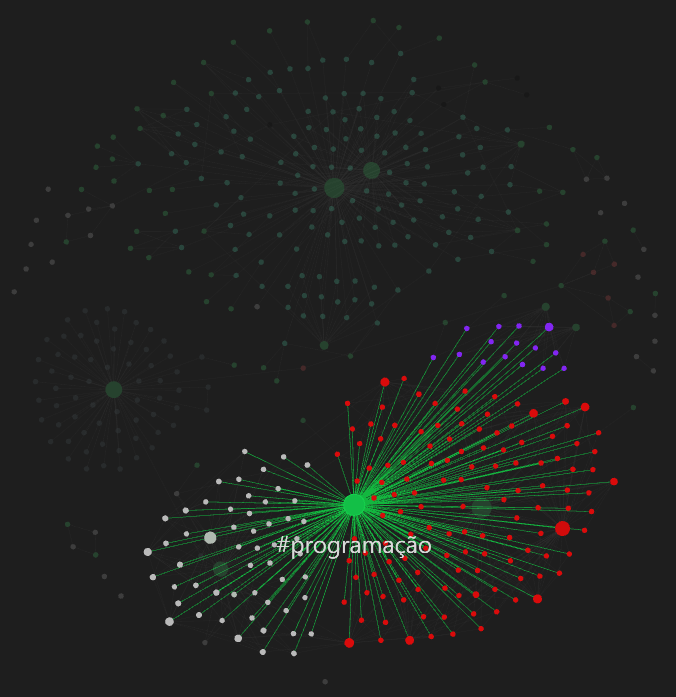
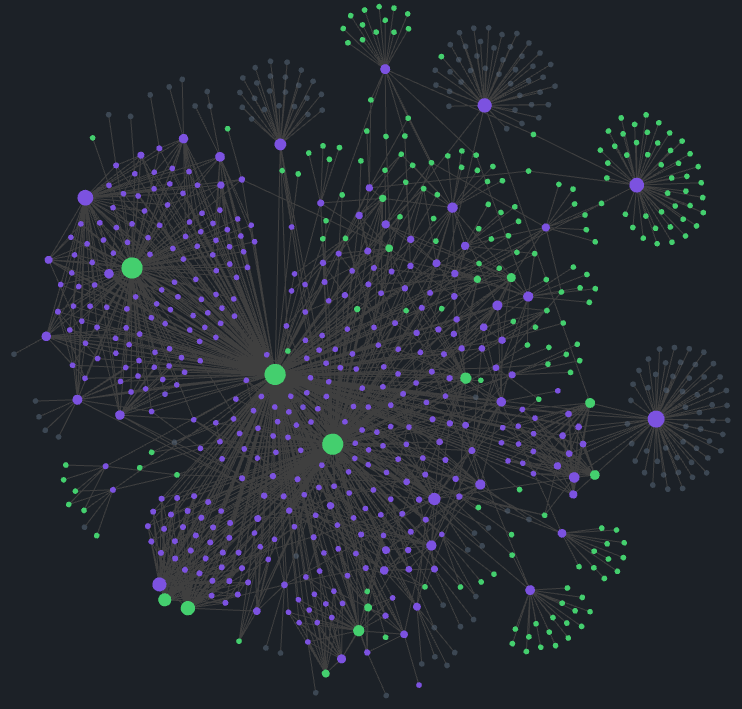
chore: Add CONTRIBUTING and INSTALL documentation and update global files

diff --git a/README.md b/README.md
@@ -1,23 +1,23 @@
 ---
 title: Studies - Root
-tags: studies, programming
-use: Documentation
-languages: NULL
-dependences: NULL
+tags:
+  - studies
+  - programming
+use: Management
 banner: "![[proggramming_banner.jpg]]"
 banner_y: 0.5
 banner_lock: true
 ---
 ****
 > [!INFO] 
-> The links are built for the obsidian branch, i was working in main but now i'll split correctly and after that update all the inter document links over the main branch
+> - If you're coming from the [GitHub repo](https://github.com/see7e/programming-studies), some of the links are built for Obsidian, this means that you'll either have to access the [Page implementation]() or store everything locally.
+> - If you like the information and want to add/update with yours insights go to the [CONTRIBUTING](Courses/CPQD_private-networks-5G/CONTRIBUTING.md) document.
 
 ---
 
 > This is a list of interesting documents gathered during development studies
 # The Big Picture 🌌
-
-This repo is divided in two branches, [main](https://github.com/see7e/programming-studies) has common links and [obsidian](https://github.com/see7e/programming-studies/tree/obsidian) links follow a Zettelkasten adapted model along with Obsidian to map the network of documents. If you want to set up in you computer, [click here](obisidian_init.md).
+Links follow a Zettelkasten adapted model along with Obsidian to map the network of documents.
 
 <details>
 	<summary>If you want to know the history, click here.</summary>
@@ -36,7 +36,6 @@ This repo is divided in two branches, [main](https://github.com/see7e/programmin
 ![Galaxy|500](./src/img/prog-galaxy.png)
 
 # Process 🧩
-
 As any (very) systematic person and with a great chance of my mind to escape the focus state, that is to me a very challenging task, I need a flow to guide me through the process of learning.
 
 ```mermaid
@@ -66,31 +65,27 @@ Other possibility is the *Expand* process, where the previous steps may revialed
 > *Isaac Newton*
 
 ## [A Fresh start](Docs/roadmaps/fresh_start.md) 🛣
-
 Sometimes in the rush to resolve the problems that we face, the learn only to fill the gap that is presented by the obstacle. So I'll try to visit the core/basic concepts of CS, using some guidelines.
 
 ## Progress 🏗
-
 This graph reflects the themes that I'm studying, and the progress of each one. The tree divisions will follow the three different contexts (work and personal).
 
 > [!NOTE]
-> The priorities are changing quickly, and in the moment i cannot follow the original plan, so i'll just put a list of the topics that i'm studying.
+> The priorities are changing quickly, and in the moment i cannot follow the original plan, so I'll just put a list of the topics that i'm studying.
 > - Backend (webserver, testings)
 >   - Django [work]
 >   - ~~Go [personal]~~
 > - Homelab (networking, services) [personal]
-> - Teorical topics (Fresh start roadmap) [personal] *is currently paused*
+> - Theorical topics (Fresh start roadmap) [personal]
 > Here's the [archive](./src/progress_archive.md) of Gannt charts. 
 
 Also I'm now tracking the "TODOs" and implementation ideas with `- [i]` this uses [Tasks Plugin](https://publish.obsidian.md/tasks/Introduction) and some theming ([Status Collections](https://publish.obsidian.md/tasks/Reference/Status+Collections/About+Status+Collections)) to format, query and sort the needed changes at the Vault.
 
-## First time with Markdown? 📑
-> Enter [here](first-time.md)
+## [First time with Markdown? 📑](first-time.md)
 
-## Some useful links [🔗](links.md) 
+## [Some useful links🔗](links.md) 
 
 ## Readings 📚
-
 - Pragmatic Programmer - From Journeyman to Master - Andrew Hunt, David Thomas
 - Make it stick - The Science of Successful Learning - Peter Brown, Henry L. Roediger III, Mark A. McDaniel
 - Modern Operating Systems - Andrew S. Tanenbaum, Herbert Bos

diff --git a/INSTALL.md b/INSTALL.md
@@ -1,0 +1,89 @@
+---
+title: INSTALL
+tags:
+  - studies
+use: Guideline, Community
+---
+# Obsidian Vault GitHub Repository Setup Guide
+
+## Prerequisites
+Before starting, ensure you have:
+- [Obsidian](https://obsidian.md/) installed on your computer
+- A [GitHub](https://github.com/) account
+- [Git](https://git-scm.com/) installed on your system
+
+## Step 1: Create Your Obsidian Vault
+1. Open Obsidian
+2. [Clone the repo](https://docs.github.com/en/repositories/creating-and-managing-repositories/cloning-a-repository)
+3. (Optionally) Uncomment and initialize the `.gitmodules`
+4. Select the location on your computer
+
+## Step 2: Daily Workflow
+### Making Changes
+1. Edit your notes in Obsidian as usual. Some configurations are default to improve compatibility with other platforms that doesn't use `[[]]` based links. Always try to create interconnected documents, to not leave orphans behind.
+2. When ready to save changes to GitHub:
+	```bash
+	# Add all changes
+	git add .
+	
+	# Commit with descriptive message
+	git commit -sm "Add notes on [topic] and update [filename]"
+	
+	# Push to GitHub
+	git push
+	```
+3. To merge the updates to the main repo and have your changes applied at the GH-Pages don't forget to open a PR.
+### Pulling Changes (if working across multiple devices)
+```bash
+# Pull latest changes from GitHub
+git pull origin main
+```
+
+## Repository Structure
+Your final repository structure should look like:
+
+```shell
+drwxrwxrwx 0 see7e see7e   512 Jun 27  2025 .
+drwxrwxrwx 0 see7e see7e   512 Oct 22  2024 ..
+drwxrwxrwx 0 see7e see7e   512 Jun 27 09:20 .git
+drwxrwxrwx 0 see7e see7e   512 Aug  1  2024 .github
+-rwxrwxrwx 0 see7e see7e   276 Dec  5  2023 .gitignore
+-rwxrwxrwx 0 see7e see7e  2313 Apr 14 08:31 .gitmodules
+-rwxrwxrwx 0 see7e see7e  1728 Jun 27 09:35 CONTRIBUTING.md
+drwxrwxrwx 0 see7e see7e   512 Oct 30  2023 Courses
+-rwxrwxrwx 0 see7e see7e  2555 Jun 27 09:10 DIRECTORY.md
+drwxrwxrwx 0 see7e see7e   512 Jun 27 09:09 Docs
+-rwxrwxrwx 0 see7e see7e  2685 Jun 27  2025 INSTALL.md
+-rwxrwxrwx 0 see7e see7e  1094 Aug 21  2023 LICENSE
+drwxrwxrwx 0 see7e see7e   512 Mar 14 10:29 Languages
+drwxrwxrwx 0 see7e see7e   512 Aug 21  2023 Programs
+drwxrwxrwx 0 see7e see7e   512 Aug 31  2024 Projects
+-rwxrwxrwx 0 see7e see7e  6469 Jun 27 09:35 README.md
+-rwxrwxrwx 0 see7e see7e 23815 Aug  1  2024 links.md
+drwxrwxrwx 0 see7e see7e   512 Aug  1  2024 src
+
+```
+
+## Best Practices
+- **Commit frequently** with descriptive messages
+- **Use folders** to organize different types of notes
+- **Keep sensitive information** in a separate, private vault
+- **Back up regularly** by pushing to GitHub
+- **Use branches** for experimental note structures
+- **Write good commit messages** describing what notes you added/modified
+
+## Troubleshooting
+
+### Common Issues
+**Authentication Error:**
+- Use personal access token instead of password
+- Generate token at: GitHub → Settings → Developer settings → Personal access tokens
+
+**Merge Conflicts:**
+- Usually occur when editing same file on different devices
+- Resolve manually or use `git mergetool`
+
+**Large Files:**
+- Git works best with text files
+- Consider Git LFS for large attachments
+

diff --git a/DIRECTORY.md b/DIRECTORY.md
@@ -1,9 +1,11 @@
 ---
 title: Studies - DIRECTORY
-tags: studies, programming
-use: Documentation
-languages: NULL
-dependences: NULL
+tags:
+  - studies
+  - programming
+use: Management
+languages: 
+dependences: 
 banner_icon: 📂
 ---
 
@@ -14,41 +16,18 @@ banner_icon: 📂
 - [DevOps](Docs/roadmaps/devops.md)
 
 # "Languages" 
-
-## [`HTML`](./Languages/HTML/README.md)
-- [`HTMX`](./Languages/HTML/HTMX.md)
-
-## [`CSS`](./Languages/CSS/README.md)
-- [`SASS`](./Languages/CSS/SASS.md)
-
-## [`JS`](./Languages/JS/README.md)
-
-## [`C`](./Languages/C/README.md)
-
-## [`Go`](./Languages/Go/README.md)
-
-## [`Python`](./Languages/Python/README.md)
-- [`Django`](./Languages/Python/Django/README.md)
-- [`Flask`](./Languages/Python/Flask/README.md)
-- [`PyQGis`](./Languages/Python/PYQGIS/README.md)
-- Libraries
-    - [OpenPyXL](openpyxl.md)
-    - [Pandas e GeoPandas](geo-pandas.md)
-    - [NumPy](numpy.md)
-    - PyInstaller
-    - Itertools
-    - PySimpleGUI
-    - Virtual Environments [#](https://docs.python.org/3/tutorial/venv.html)
-    - Sphinx
-
-## SQL
-- [`PostgreSQL`](./Languages/SQL/PSQL/README.md)
-
-## [`PHP 7`](./Languages/PHP/README.md)
-
-## Containers
-- [`Docker`](./Languages/Docker/README.md)
-- `Kuernetes`
+- [`HTML`](./Languages/HTML/README.md)
+- [`CSS`](./Languages/CSS/README.md)
+- [`JS`](./Languages/JS/README.md)
+- [`C`](./Languages/C/README.md)
+- [`Go`](./Languages/Go/README.md)
+- [`Python`](./Languages/Python/README.md)
+-  SQL
+	- [`PostgreSQL`](./Languages/SQL/PSQL/README.md)
+- [`PHP 7`](./Languages/PHP/README.md)
+- Containers
+	- [`Docker`](./Languages/Docker/README.md)
+	- `Kuernetes`
 
 ---
 
@@ -62,14 +41,7 @@ banner_icon: 📂
 
 # Other
 - [101 Code Concepts](101_code_concepts.md)
-- [Software Architeture](./Docs/software_architecture.md)
 - [Techinical Project Documentation](./Docs/project_documentation.md)
-- [Shell Commands](./Docs/shell_commands.md)
-- [Data Structures](./Docs/data_structure.md)
-- [Big O Notation](./Docs/big_o_notation.md)
-- Algorithms
-  - [Sorting Algo](./Docs/sorting_algo.md)
-- [UML](./Docs/uml.md)
 
 # Programs
 - [QGIS](./Programs/QGIS/README.md) 

diff --git a/CONTRIBUTING.md b/CONTRIBUTING.md
@@ -1,0 +1,34 @@
+---
+title: CONTRIBUTING
+tags:
+  - studies
+use: Guideline, Community
+---
+# Contributing
+
+## Developer guide
+A complete developer guide is also available to explain the [development process](https://github.com/see7e/github-templates/wiki/03-Development-Process), the unit testing system and more!
+
+You may also want to consult the build process which is fully detailed in the [install guide](INSTALL.md).
+
+## Bug reporting and bug fixing
+You can help us **by submitting bug reports or fixing bugs** in the [Project bug tracker](https://github.com/see7e/programming-studies/issues).
+
+## New features and enhancements
+If you wish to contribute patches you can:
+1. [Fork the project](https://help.github.com/forking/)
+2. Make your changes
+3. Commit (signed with `-s` flag) to your repository
+4. [Create a pull request](https://help.github.com/articles/creating-a-pull-request-from-a-fork/)
+
+The development team can then review your contribution and commit it upstream as appropriate.
+
+If you commit a new feature, add `[FEATURE]` to your commit message AND give a clear description of the new feature. There's also the `Documentation` related issue.
+
+For large-scale changes, you can open a new discussion at [Ideas](https://github.com/see7e/programming-studies/discussions/categories/ideas) category. Are used in the process of creating and discussing new enhancements or policy for the Project.
+
+## Translations
+The translations are handled based on the Project needs, so it may change from context to context.
+
+## Other ways to contribute
+If you are not a developer, there are many other possibilities that do not require programming skills to help the Project, refer to the [discussions pages](https://github.com/see7e/programming-studies/discussions).
